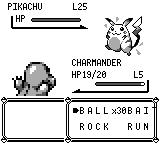
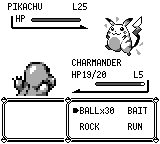
fix(ui): fit Safari labels and ball count using font advances

Changed region(s): [[0.5312, 0.7222, 0.9375, 0.8056], [0.5312, 0.8333, 0.6875, 0.9167], [0.8125, 0.8611, 0.9375, 0.9167]]

diff --git a/crates/pokered-ui/src/menus/battle_safari.rs b/crates/pokered-ui/src/menus/battle_safari.rs
@@ -1,3 +1,4 @@
+use crate::alloc_prelude::format;
 use pokered_core::battle::menu::SafariBattleMenuState;
 use pokered_core::game_state::Lang;
 #[cfg(not(target_os = "none"))]
@@ -27,10 +28,12 @@ fn draw_v2<P: Painter>(state: &SafariBattleMenuState, ui: &mut Ui<P>, lang: Lang
     let Some(json) = get_screen_v2_json("battle_safari") else {
         return;
     };
-    let Some(layout) = v2::parse_screen(json) else {
+    let Some(mut layout) = v2::parse_screen(json) else {
         return;
     };
 
+    // Use the open font's actual advances so BALL and its count fit one column.
+    layout.theme.text_mode = dotzuki_renderer::layout_engine::types::TextMode::Proportional;
     let ctx = bindings(state, lang).dynamic();
 
     v2::render_screen_overlay(&layout, &ctx, ui.painter());
@@ -44,6 +47,8 @@ fn bindings(
     ctx.set("bcol", state.col() as i64);
     ctx.set("brow", state.row() as i64);
     ctx.set("__lang", v2::lang_code(lang));
+    let label = if lang == Lang::Zh { "球" } else { "BALL" };
+    ctx.set("ball_label", format!("{label}×{}", state.safari_balls_remaining));
 
     ctx
 }
@@ -53,7 +58,7 @@ fn draw_compiled<P: Painter>(state: &SafariBattleMenuState, painter: &mut P, lan
     pokered_data::ui_layout::schema::BATTLE_SAFARI_STATIC_LAYOUT.render(
         &bindings(state, lang),
         painter,
-        false,
+        true,
         false,
     );
 }
@@ -77,7 +82,9 @@ fn cursor_spec(row: usize, col: usize) -> (TilePos, char) {
 }
 
 fn draw_cursor<P: Painter>(painter: &mut P, cursor: (TilePos, char)) {
-    painter.draw_glyph(cursor.0, cursor.1, Rgba::INK_BLACK);
+    dotzuki_renderer::layout_engine::elements::cursor::draw_cursor_glyph(
+        cursor.0, cursor.1, Rgba::INK_BLACK, painter.supports_proportional(), painter,
+    );
 }
 
 /// Repaint only the changed cursor cells of an already-rendered Safari menu.
@@ -101,6 +108,7 @@ mod tests {
     enum Op {
         Box(TileRect, Rgba),
         Glyph(TilePos, char, Rgba),
+        TextPx(u32, u32, crate::alloc_prelude::String, Rgba),
     }
 
     #[derive(Default)]
@@ -121,6 +129,12 @@ mod tests {
 
         fn draw_pixel_rect(&mut self, _px: u32, _py: u32, _pw: u32, _ph: u32, _color: Rgba) {}
 
+        fn draw_text_px(&mut self, x: u32, y: u32, text: &str, color: Rgba) {
+            self.0.push(Op::TextPx(x, y, text.into(), color));
+        }
+
+        fn supports_proportional(&self) -> bool { true }
+
         fn draw_gb_tile(&mut self, _pos: TilePos, _tile_id: u8, _fallback: &str, _color: Rgba) {}
     }
 
@@ -132,6 +146,34 @@ mod tests {
             ..BattleMenuInput::none()
         });
         state
+    }
+
+    #[test]
+    fn safari_ball_label_and_count_use_actual_font_advances() {
+        use crate::backends::framebuffer::FrameBufferPainter;
+        use dotzuki_engine::render_config::RenderConfig;
+        use pokered_renderer::{embedded_font, FrameBuffer};
+
+        for lang in [Lang::En, Lang::Zh] {
+            for balls in [0, 1, 9, 10, 30] {
+                let state = SafariBattleMenuState::new(balls);
+                let mut actual = FrameBuffer::new(RenderConfig::new(160, 144), Rgba::WHITE);
+                let mut painter = FrameBufferPainter::new(&mut actual).with_lang(lang);
+                draw_v2(&state, &mut Ui::new(&mut painter), lang);
+                let label = format!("{}×{balls}", if lang == Lang::Zh { "球" } else { "BALL" });
+                assert!(embedded_font::measure_text(&label) <= 40,
+                    "ball label must fit before the right-column cursor");
+                let mut expected = FrameBuffer::new(RenderConfig::new(160, 144), Rgba::WHITE);
+                let y = if lang == Lang::Zh { 103 } else { 104 };
+                embedded_font::draw_text(&label, 80, y, Rgba::INK_BLACK, &mut expected);
+                for y in 104..116 {
+                    for x in 80..120 {
+                        assert_eq!(actual.get_pixel(x, y), expected.get_pixel(x, y),
+                            "{lang:?}, balls={balls}, ({x},{y})");
+                    }
+                }
+            }
+        }
     }
 
     #[test]

diff --git a/crates/pokered-app/src/render/battle.rs b/crates/pokered-app/src/render/battle.rs
@@ -4688,16 +4688,6 @@ pub fn draw_battle(
             if matches!(screen.phase, BattlePhase::PlayerMenu) {
                 if screen.is_safari {
                     menus::battle_safari::draw(&screen.safari_menu, &mut ui, language);
-                    // SAFARI BALL count after "BALL": the original prints
-                    // wNumSafariBalls as a 2-digit number (core.asm:2077-2081,
-                    // PrintNumber — "BALL×NN"; aligned to the menu's first text row.
-                    draw_text(
-                        &format!("×{}", screen.safari_menu.safari_balls_remaining),
-                        112,
-                        104,
-                        Rgba::new(0, 0, 0, 255),
-                        fb,
-                    );
                 } else {
                     menus::battle_main::draw(
                         &screen.battle_menu,

diff --git a/docs/screenshots/tui-shared-runtime/README.md b/docs/screenshots/tui-shared-runtime/README.md
@@ -16,64 +16,66 @@ PR_SCREENSHOTS=/tmp/tui-frames cargo test -p pokered-tui capture_tui_ -- --ignor
 
 新增截图 fixture 在 master 捕获时临时加入原有测试文件，使用旧 TUI 游戏类与输入类型；PR 上使用共享游戏类与输入类型。两次捕获的屏幕状态、语言及输入序列相同。通用屏幕的 `frame_count=180`，其余帧数见 fixture。额外字体场景覆盖中英文、等级 100、HP 703/703、PSN、队伍、PC、命名、红蓝标题及 GAME FREAK。
 
-战斗与狩猎区动作菜单的两行文字及光标整体上移 8px，底边上方留出至少 6px 空白；狩猎球数量同步对齐。像素回归检查覆盖两种语言、两种菜单与全部四个光标位置。`battle-menu-padding-bug.png` 保存 805d8c9 上的审阅问题画面。
+战斗与狩猎区动作菜单的两行文字及光标整体上移 8px，底边上方留出至少 6px 空白；狩猎区标签按 Fusion Pixel 实际字宽绘制，BALL 与数量合为一个布局元素；不再从战斗渲染器独立插入数量。像素回归检查覆盖两种语言、两种菜单与全部四个光标位置。`battle-menu-padding-bug.png` 保存 805d8c9 上的审阅问题画面。
+
+数量 0/1/9/10/30 的英文/中文像素检查覆盖球标签与计数，静态 GBA 布局与动态布局的输出一致。`safari-menu-width-bug.png` 保存 b7982ef 上英文拥挤的审阅画面。
 
 像素计数按 RGBA 值逐点比较，见 `comparison.json`。
 
 | 场景 | 改变的像素 | 前 | 后 |
 |---|---:|---|---|
-| tui-bag-en | 0 | ![前](https://raw.githubusercontent.com/liuyanghejerry/open-pokered/refactor/tui-shared-runtime/docs/screenshots/tui-shared-runtime/tui-bag-en-before.png?font-review=2) | ![后](https://raw.githubusercontent.com/liuyanghejerry/open-pokered/refactor/tui-shared-runtime/docs/screenshots/tui-shared-runtime/tui-bag-en-after.png?font-review=2) |
-| tui-bag-zh | 0 | ![前](https://raw.githubusercontent.com/liuyanghejerry/open-pokered/refactor/tui-shared-runtime/docs/screenshots/tui-shared-runtime/tui-bag-zh-before.png?font-review=2) | ![后](https://raw.githubusercontent.com/liuyanghejerry/open-pokered/refactor/tui-shared-runtime/docs/screenshots/tui-shared-runtime/tui-bag-zh-after.png?font-review=2) |
-| tui-battle-en | 1631 | ![前](https://raw.githubusercontent.com/liuyanghejerry/open-pokered/refactor/tui-shared-runtime/docs/screenshots/tui-shared-runtime/tui-battle-en-before.png?font-review=2) | ![后](https://raw.githubusercontent.com/liuyanghejerry/open-pokered/refactor/tui-shared-runtime/docs/screenshots/tui-shared-runtime/tui-battle-en-after.png?font-review=2) |
-| tui-battle-zh | 1342 | ![前](https://raw.githubusercontent.com/liuyanghejerry/open-pokered/refactor/tui-shared-runtime/docs/screenshots/tui-shared-runtime/tui-battle-zh-before.png?font-review=2) | ![后](https://raw.githubusercontent.com/liuyanghejerry/open-pokered/refactor/tui-shared-runtime/docs/screenshots/tui-shared-runtime/tui-battle-zh-after.png?font-review=2) |
-| tui-copyright-en | 1437 | ![前](https://raw.githubusercontent.com/liuyanghejerry/open-pokered/refactor/tui-shared-runtime/docs/screenshots/tui-shared-runtime/tui-copyright-en-before.png?font-review=2) | ![后](https://raw.githubusercontent.com/liuyanghejerry/open-pokered/refactor/tui-shared-runtime/docs/screenshots/tui-shared-runtime/tui-copyright-en-after.png?font-review=2) |
-| tui-copyright-zh | 1437 | ![前](https://raw.githubusercontent.com/liuyanghejerry/open-pokered/refactor/tui-shared-runtime/docs/screenshots/tui-shared-runtime/tui-copyright-zh-before.png?font-review=2) | ![后](https://raw.githubusercontent.com/liuyanghejerry/open-pokered/refactor/tui-shared-runtime/docs/screenshots/tui-shared-runtime/tui-copyright-zh-after.png?font-review=2) |
-| tui-dex-caterpie-page-0 | 1936 | ![前](https://raw.githubusercontent.com/liuyanghejerry/open-pokered/refactor/tui-shared-runtime/docs/screenshots/tui-shared-runtime/tui-dex-caterpie-page-0-before.png?font-review=2) | ![后](https://raw.githubusercontent.com/liuyanghejerry/open-pokered/refactor/tui-shared-runtime/docs/screenshots/tui-shared-runtime/tui-dex-caterpie-page-0-after.png?font-review=2) |
-| tui-fly-departure-0-en | 15283 | ![前](https://raw.githubusercontent.com/liuyanghejerry/open-pokered/refactor/tui-shared-runtime/docs/screenshots/tui-shared-runtime/tui-fly-departure-0-en-before.png?font-review=2) | ![后](https://raw.githubusercontent.com/liuyanghejerry/open-pokered/refactor/tui-shared-runtime/docs/screenshots/tui-shared-runtime/tui-fly-departure-0-en-after.png?font-review=2) |
-| tui-fly-departure-0-zh | 15245 | ![前](https://raw.githubusercontent.com/liuyanghejerry/open-pokered/refactor/tui-shared-runtime/docs/screenshots/tui-shared-runtime/tui-fly-departure-0-zh-before.png?font-review=2) | ![后](https://raw.githubusercontent.com/liuyanghejerry/open-pokered/refactor/tui-shared-runtime/docs/screenshots/tui-shared-runtime/tui-fly-departure-0-zh-after.png?font-review=2) |
-| tui-fly-departure-7-en | 15283 | ![前](https://raw.githubusercontent.com/liuyanghejerry/open-pokered/refactor/tui-shared-runtime/docs/screenshots/tui-shared-runtime/tui-fly-departure-7-en-before.png?font-review=2) | ![后](https://raw.githubusercontent.com/liuyanghejerry/open-pokered/refactor/tui-shared-runtime/docs/screenshots/tui-shared-runtime/tui-fly-departure-7-en-after.png?font-review=2) |
-| tui-fly-departure-7-zh | 15245 | ![前](https://raw.githubusercontent.com/liuyanghejerry/open-pokered/refactor/tui-shared-runtime/docs/screenshots/tui-shared-runtime/tui-fly-departure-7-zh-before.png?font-review=2) | ![后](https://raw.githubusercontent.com/liuyanghejerry/open-pokered/refactor/tui-shared-runtime/docs/screenshots/tui-shared-runtime/tui-fly-departure-7-zh-after.png?font-review=2) |
-| tui-fly-departure-8-en | 6502 | ![前](https://raw.githubusercontent.com/liuyanghejerry/open-pokered/refactor/tui-shared-runtime/docs/screenshots/tui-shared-runtime/tui-fly-departure-8-en-before.png?font-review=2) | ![后](https://raw.githubusercontent.com/liuyanghejerry/open-pokered/refactor/tui-shared-runtime/docs/screenshots/tui-shared-runtime/tui-fly-departure-8-en-after.png?font-review=2) |
-| tui-fly-departure-8-zh | 6502 | ![前](https://raw.githubusercontent.com/liuyanghejerry/open-pokered/refactor/tui-shared-runtime/docs/screenshots/tui-shared-runtime/tui-fly-departure-8-zh-before.png?font-review=2) | ![后](https://raw.githubusercontent.com/liuyanghejerry/open-pokered/refactor/tui-shared-runtime/docs/screenshots/tui-shared-runtime/tui-fly-departure-8-zh-after.png?font-review=2) |
-| tui-font-battle-status-en | 1692 | ![前](https://raw.githubusercontent.com/liuyanghejerry/open-pokered/refactor/tui-shared-runtime/docs/screenshots/tui-shared-runtime/tui-font-battle-status-en-before.png?font-review=2) | ![后](https://raw.githubusercontent.com/liuyanghejerry/open-pokered/refactor/tui-shared-runtime/docs/screenshots/tui-shared-runtime/tui-font-battle-status-en-after.png?font-review=2) |
-| tui-font-battle-status-zh | 1405 | ![前](https://raw.githubusercontent.com/liuyanghejerry/open-pokered/refactor/tui-shared-runtime/docs/screenshots/tui-shared-runtime/tui-font-battle-status-zh-before.png?font-review=2) | ![后](https://raw.githubusercontent.com/liuyanghejerry/open-pokered/refactor/tui-shared-runtime/docs/screenshots/tui-shared-runtime/tui-font-battle-status-zh-after.png?font-review=2) |
-| tui-font-gamefreak | 322 | ![前](https://raw.githubusercontent.com/liuyanghejerry/open-pokered/refactor/tui-shared-runtime/docs/screenshots/tui-shared-runtime/tui-font-gamefreak-before.png?font-review=2) | ![后](https://raw.githubusercontent.com/liuyanghejerry/open-pokered/refactor/tui-shared-runtime/docs/screenshots/tui-shared-runtime/tui-font-gamefreak-after.png?font-review=2) |
-| tui-font-naming | 126 | ![前](https://raw.githubusercontent.com/liuyanghejerry/open-pokered/refactor/tui-shared-runtime/docs/screenshots/tui-shared-runtime/tui-font-naming-before.png?font-review=2) | ![后](https://raw.githubusercontent.com/liuyanghejerry/open-pokered/refactor/tui-shared-runtime/docs/screenshots/tui-shared-runtime/tui-font-naming-after.png?font-review=2) |
-| tui-font-party-en | 103 | ![前](https://raw.githubusercontent.com/liuyanghejerry/open-pokered/refactor/tui-shared-runtime/docs/screenshots/tui-shared-runtime/tui-font-party-en-before.png?font-review=2) | ![后](https://raw.githubusercontent.com/liuyanghejerry/open-pokered/refactor/tui-shared-runtime/docs/screenshots/tui-shared-runtime/tui-font-party-en-after.png?font-review=2) |
-| tui-font-party-zh | 103 | ![前](https://raw.githubusercontent.com/liuyanghejerry/open-pokered/refactor/tui-shared-runtime/docs/screenshots/tui-shared-runtime/tui-font-party-zh-before.png?font-review=2) | ![后](https://raw.githubusercontent.com/liuyanghejerry/open-pokered/refactor/tui-shared-runtime/docs/screenshots/tui-shared-runtime/tui-font-party-zh-after.png?font-review=2) |
-| tui-font-pc | 255 | ![前](https://raw.githubusercontent.com/liuyanghejerry/open-pokered/refactor/tui-shared-runtime/docs/screenshots/tui-shared-runtime/tui-font-pc-before.png?font-review=2) | ![后](https://raw.githubusercontent.com/liuyanghejerry/open-pokered/refactor/tui-shared-runtime/docs/screenshots/tui-shared-runtime/tui-font-pc-after.png?font-review=2) |
-| tui-font-title-Blue | 647 | ![前](https://raw.githubusercontent.com/liuyanghejerry/open-pokered/refactor/tui-shared-runtime/docs/screenshots/tui-shared-runtime/tui-font-title-Blue-before.png?font-review=2) | ![后](https://raw.githubusercontent.com/liuyanghejerry/open-pokered/refactor/tui-shared-runtime/docs/screenshots/tui-shared-runtime/tui-font-title-Blue-after.png?font-review=2) |
-| tui-font-title-Red | 644 | ![前](https://raw.githubusercontent.com/liuyanghejerry/open-pokered/refactor/tui-shared-runtime/docs/screenshots/tui-shared-runtime/tui-font-title-Red-before.png?font-review=2) | ![后](https://raw.githubusercontent.com/liuyanghejerry/open-pokered/refactor/tui-shared-runtime/docs/screenshots/tui-shared-runtime/tui-font-title-Red-after.png?font-review=2) |
-| tui-hof-rating-50 | 0 | ![前](https://raw.githubusercontent.com/liuyanghejerry/open-pokered/refactor/tui-shared-runtime/docs/screenshots/tui-shared-runtime/tui-hof-rating-50-before.png?font-review=2) | ![后](https://raw.githubusercontent.com/liuyanghejerry/open-pokered/refactor/tui-shared-runtime/docs/screenshots/tui-shared-runtime/tui-hof-rating-50-after.png?font-review=2) |
-| tui-hof-stats-max | 0 | ![前](https://raw.githubusercontent.com/liuyanghejerry/open-pokered/refactor/tui-shared-runtime/docs/screenshots/tui-shared-runtime/tui-hof-stats-max-before.png?font-review=2) | ![后](https://raw.githubusercontent.com/liuyanghejerry/open-pokered/refactor/tui-shared-runtime/docs/screenshots/tui-shared-runtime/tui-hof-stats-max-after.png?font-review=2) |
-| tui-hof-stats-zero | 0 | ![前](https://raw.githubusercontent.com/liuyanghejerry/open-pokered/refactor/tui-shared-runtime/docs/screenshots/tui-shared-runtime/tui-hof-stats-zero-before.png?font-review=2) | ![后](https://raw.githubusercontent.com/liuyanghejerry/open-pokered/refactor/tui-shared-runtime/docs/screenshots/tui-shared-runtime/tui-hof-stats-zero-after.png?font-review=2) |
-| tui-intro-en | 0 | ![前](https://raw.githubusercontent.com/liuyanghejerry/open-pokered/refactor/tui-shared-runtime/docs/screenshots/tui-shared-runtime/tui-intro-en-before.png?font-review=2) | ![后](https://raw.githubusercontent.com/liuyanghejerry/open-pokered/refactor/tui-shared-runtime/docs/screenshots/tui-shared-runtime/tui-intro-en-after.png?font-review=2) |
-| tui-intro-zh | 0 | ![前](https://raw.githubusercontent.com/liuyanghejerry/open-pokered/refactor/tui-shared-runtime/docs/screenshots/tui-shared-runtime/tui-intro-zh-before.png?font-review=2) | ![后](https://raw.githubusercontent.com/liuyanghejerry/open-pokered/refactor/tui-shared-runtime/docs/screenshots/tui-shared-runtime/tui-intro-zh-after.png?font-review=2) |
-| tui-language-en | 0 | ![前](https://raw.githubusercontent.com/liuyanghejerry/open-pokered/refactor/tui-shared-runtime/docs/screenshots/tui-shared-runtime/tui-language-en-before.png?font-review=2) | ![后](https://raw.githubusercontent.com/liuyanghejerry/open-pokered/refactor/tui-shared-runtime/docs/screenshots/tui-shared-runtime/tui-language-en-after.png?font-review=2) |
-| tui-language-zh | 0 | ![前](https://raw.githubusercontent.com/liuyanghejerry/open-pokered/refactor/tui-shared-runtime/docs/screenshots/tui-shared-runtime/tui-language-zh-before.png?font-review=2) | ![后](https://raw.githubusercontent.com/liuyanghejerry/open-pokered/refactor/tui-shared-runtime/docs/screenshots/tui-shared-runtime/tui-language-zh-after.png?font-review=2) |
-| tui-main-menu-en | 0 | ![前](https://raw.githubusercontent.com/liuyanghejerry/open-pokered/refactor/tui-shared-runtime/docs/screenshots/tui-shared-runtime/tui-main-menu-en-before.png?font-review=2) | ![后](https://raw.githubusercontent.com/liuyanghejerry/open-pokered/refactor/tui-shared-runtime/docs/screenshots/tui-shared-runtime/tui-main-menu-en-after.png?font-review=2) |
-| tui-main-menu-zh | 0 | ![前](https://raw.githubusercontent.com/liuyanghejerry/open-pokered/refactor/tui-shared-runtime/docs/screenshots/tui-shared-runtime/tui-main-menu-zh-before.png?font-review=2) | ![后](https://raw.githubusercontent.com/liuyanghejerry/open-pokered/refactor/tui-shared-runtime/docs/screenshots/tui-shared-runtime/tui-main-menu-zh-after.png?font-review=2) |
-| tui-oak-input-frame-43 | 0 | ![前](https://raw.githubusercontent.com/liuyanghejerry/open-pokered/refactor/tui-shared-runtime/docs/screenshots/tui-shared-runtime/tui-oak-input-frame-43-before.png?font-review=2) | ![后](https://raw.githubusercontent.com/liuyanghejerry/open-pokered/refactor/tui-shared-runtime/docs/screenshots/tui-shared-runtime/tui-oak-input-frame-43-after.png?font-review=2) |
-| tui-oak-name-choice | 520 | ![前](https://raw.githubusercontent.com/liuyanghejerry/open-pokered/refactor/tui-shared-runtime/docs/screenshots/tui-shared-runtime/tui-oak-name-choice-before.png?font-review=2) | ![后](https://raw.githubusercontent.com/liuyanghejerry/open-pokered/refactor/tui-shared-runtime/docs/screenshots/tui-shared-runtime/tui-oak-name-choice-after.png?font-review=2) |
-| tui-options-en | 0 | ![前](https://raw.githubusercontent.com/liuyanghejerry/open-pokered/refactor/tui-shared-runtime/docs/screenshots/tui-shared-runtime/tui-options-en-before.png?font-review=2) | ![后](https://raw.githubusercontent.com/liuyanghejerry/open-pokered/refactor/tui-shared-runtime/docs/screenshots/tui-shared-runtime/tui-options-en-after.png?font-review=2) |
-| tui-options-zh | 0 | ![前](https://raw.githubusercontent.com/liuyanghejerry/open-pokered/refactor/tui-shared-runtime/docs/screenshots/tui-shared-runtime/tui-options-zh-before.png?font-review=2) | ![后](https://raw.githubusercontent.com/liuyanghejerry/open-pokered/refactor/tui-shared-runtime/docs/screenshots/tui-shared-runtime/tui-options-zh-after.png?font-review=2) |
-| tui-overworld-en | 0 | ![前](https://raw.githubusercontent.com/liuyanghejerry/open-pokered/refactor/tui-shared-runtime/docs/screenshots/tui-shared-runtime/tui-overworld-en-before.png?font-review=2) | ![后](https://raw.githubusercontent.com/liuyanghejerry/open-pokered/refactor/tui-shared-runtime/docs/screenshots/tui-shared-runtime/tui-overworld-en-after.png?font-review=2) |
-| tui-overworld-zh | 0 | ![前](https://raw.githubusercontent.com/liuyanghejerry/open-pokered/refactor/tui-shared-runtime/docs/screenshots/tui-shared-runtime/tui-overworld-zh-before.png?font-review=2) | ![后](https://raw.githubusercontent.com/liuyanghejerry/open-pokered/refactor/tui-shared-runtime/docs/screenshots/tui-shared-runtime/tui-overworld-zh-after.png?font-review=2) |
-| tui-party-en | 0 | ![前](https://raw.githubusercontent.com/liuyanghejerry/open-pokered/refactor/tui-shared-runtime/docs/screenshots/tui-shared-runtime/tui-party-en-before.png?font-review=2) | ![后](https://raw.githubusercontent.com/liuyanghejerry/open-pokered/refactor/tui-shared-runtime/docs/screenshots/tui-shared-runtime/tui-party-en-after.png?font-review=2) |
-| tui-party-zh | 0 | ![前](https://raw.githubusercontent.com/liuyanghejerry/open-pokered/refactor/tui-shared-runtime/docs/screenshots/tui-shared-runtime/tui-party-zh-before.png?font-review=2) | ![后](https://raw.githubusercontent.com/liuyanghejerry/open-pokered/refactor/tui-shared-runtime/docs/screenshots/tui-shared-runtime/tui-party-zh-after.png?font-review=2) |
-| tui-pc-oak-rating-50 | 0 | ![前](https://raw.githubusercontent.com/liuyanghejerry/open-pokered/refactor/tui-shared-runtime/docs/screenshots/tui-shared-runtime/tui-pc-oak-rating-50-before.png?font-review=2) | ![后](https://raw.githubusercontent.com/liuyanghejerry/open-pokered/refactor/tui-shared-runtime/docs/screenshots/tui-shared-runtime/tui-pc-oak-rating-50-after.png?font-review=2) |
-| tui-safari-menu-en | 1687 | ![前](https://raw.githubusercontent.com/liuyanghejerry/open-pokered/refactor/tui-shared-runtime/docs/screenshots/tui-shared-runtime/tui-safari-menu-en-before.png?font-review=2) | ![后](https://raw.githubusercontent.com/liuyanghejerry/open-pokered/refactor/tui-shared-runtime/docs/screenshots/tui-shared-runtime/tui-safari-menu-en-after.png?font-review=2) |
-| tui-safari-menu-zh | 1342 | ![前](https://raw.githubusercontent.com/liuyanghejerry/open-pokered/refactor/tui-shared-runtime/docs/screenshots/tui-shared-runtime/tui-safari-menu-zh-before.png?font-review=2) | ![后](https://raw.githubusercontent.com/liuyanghejerry/open-pokered/refactor/tui-shared-runtime/docs/screenshots/tui-shared-runtime/tui-safari-menu-zh-after.png?font-review=2) |
-| tui-save-en | 0 | ![前](https://raw.githubusercontent.com/liuyanghejerry/open-pokered/refactor/tui-shared-runtime/docs/screenshots/tui-shared-runtime/tui-save-en-before.png?font-review=2) | ![后](https://raw.githubusercontent.com/liuyanghejerry/open-pokered/refactor/tui-shared-runtime/docs/screenshots/tui-shared-runtime/tui-save-en-after.png?font-review=2) |
-| tui-save-zh | 0 | ![前](https://raw.githubusercontent.com/liuyanghejerry/open-pokered/refactor/tui-shared-runtime/docs/screenshots/tui-shared-runtime/tui-save-zh-before.png?font-review=2) | ![后](https://raw.githubusercontent.com/liuyanghejerry/open-pokered/refactor/tui-shared-runtime/docs/screenshots/tui-shared-runtime/tui-save-zh-after.png?font-review=2) |
-| tui-splash-en | 1437 | ![前](https://raw.githubusercontent.com/liuyanghejerry/open-pokered/refactor/tui-shared-runtime/docs/screenshots/tui-shared-runtime/tui-splash-en-before.png?font-review=2) | ![后](https://raw.githubusercontent.com/liuyanghejerry/open-pokered/refactor/tui-shared-runtime/docs/screenshots/tui-shared-runtime/tui-splash-en-after.png?font-review=2) |
-| tui-splash-zh | 1437 | ![前](https://raw.githubusercontent.com/liuyanghejerry/open-pokered/refactor/tui-shared-runtime/docs/screenshots/tui-shared-runtime/tui-splash-zh-before.png?font-review=2) | ![后](https://raw.githubusercontent.com/liuyanghejerry/open-pokered/refactor/tui-shared-runtime/docs/screenshots/tui-shared-runtime/tui-splash-zh-after.png?font-review=2) |
-| tui-start-menu-en | 0 | ![前](https://raw.githubusercontent.com/liuyanghejerry/open-pokered/refactor/tui-shared-runtime/docs/screenshots/tui-shared-runtime/tui-start-menu-en-before.png?font-review=2) | ![后](https://raw.githubusercontent.com/liuyanghejerry/open-pokered/refactor/tui-shared-runtime/docs/screenshots/tui-shared-runtime/tui-start-menu-en-after.png?font-review=2) |
-| tui-start-menu-zh | 0 | ![前](https://raw.githubusercontent.com/liuyanghejerry/open-pokered/refactor/tui-shared-runtime/docs/screenshots/tui-shared-runtime/tui-start-menu-zh-before.png?font-review=2) | ![后](https://raw.githubusercontent.com/liuyanghejerry/open-pokered/refactor/tui-shared-runtime/docs/screenshots/tui-shared-runtime/tui-start-menu-zh-after.png?font-review=2) |
-| tui-starter-dex-overlay | 1952 | ![前](https://raw.githubusercontent.com/liuyanghejerry/open-pokered/refactor/tui-shared-runtime/docs/screenshots/tui-shared-runtime/tui-starter-dex-overlay-before.png?font-review=2) | ![后](https://raw.githubusercontent.com/liuyanghejerry/open-pokered/refactor/tui-shared-runtime/docs/screenshots/tui-shared-runtime/tui-starter-dex-overlay-after.png?font-review=2) |
-| tui-title-en | 449 | ![前](https://raw.githubusercontent.com/liuyanghejerry/open-pokered/refactor/tui-shared-runtime/docs/screenshots/tui-shared-runtime/tui-title-en-before.png?font-review=2) | ![后](https://raw.githubusercontent.com/liuyanghejerry/open-pokered/refactor/tui-shared-runtime/docs/screenshots/tui-shared-runtime/tui-title-en-after.png?font-review=2) |
-| tui-title-zh | 449 | ![前](https://raw.githubusercontent.com/liuyanghejerry/open-pokered/refactor/tui-shared-runtime/docs/screenshots/tui-shared-runtime/tui-title-zh-before.png?font-review=2) | ![后](https://raw.githubusercontent.com/liuyanghejerry/open-pokered/refactor/tui-shared-runtime/docs/screenshots/tui-shared-runtime/tui-title-zh-after.png?font-review=2) |
-| tui-town-map-en | 192 | ![前](https://raw.githubusercontent.com/liuyanghejerry/open-pokered/refactor/tui-shared-runtime/docs/screenshots/tui-shared-runtime/tui-town-map-en-before.png?font-review=2) | ![后](https://raw.githubusercontent.com/liuyanghejerry/open-pokered/refactor/tui-shared-runtime/docs/screenshots/tui-shared-runtime/tui-town-map-en-after.png?font-review=2) |
-| tui-town-map-zh | 374 | ![前](https://raw.githubusercontent.com/liuyanghejerry/open-pokered/refactor/tui-shared-runtime/docs/screenshots/tui-shared-runtime/tui-town-map-zh-before.png?font-review=2) | ![后](https://raw.githubusercontent.com/liuyanghejerry/open-pokered/refactor/tui-shared-runtime/docs/screenshots/tui-shared-runtime/tui-town-map-zh-after.png?font-review=2) |
-| tui-trainer-card-en | 528 | ![前](https://raw.githubusercontent.com/liuyanghejerry/open-pokered/refactor/tui-shared-runtime/docs/screenshots/tui-shared-runtime/tui-trainer-card-en-before.png?font-review=2) | ![后](https://raw.githubusercontent.com/liuyanghejerry/open-pokered/refactor/tui-shared-runtime/docs/screenshots/tui-shared-runtime/tui-trainer-card-en-after.png?font-review=2) |
-| tui-trainer-card-zh | 505 | ![前](https://raw.githubusercontent.com/liuyanghejerry/open-pokered/refactor/tui-shared-runtime/docs/screenshots/tui-shared-runtime/tui-trainer-card-zh-before.png?font-review=2) | ![后](https://raw.githubusercontent.com/liuyanghejerry/open-pokered/refactor/tui-shared-runtime/docs/screenshots/tui-shared-runtime/tui-trainer-card-zh-after.png?font-review=2) |
+| tui-bag-en | 0 | ![前](https://raw.githubusercontent.com/liuyanghejerry/open-pokered/refactor/tui-shared-runtime/docs/screenshots/tui-shared-runtime/tui-bag-en-before.png?font-review=3) | ![后](https://raw.githubusercontent.com/liuyanghejerry/open-pokered/refactor/tui-shared-runtime/docs/screenshots/tui-shared-runtime/tui-bag-en-after.png?font-review=3) |
+| tui-bag-zh | 0 | ![前](https://raw.githubusercontent.com/liuyanghejerry/open-pokered/refactor/tui-shared-runtime/docs/screenshots/tui-shared-runtime/tui-bag-zh-before.png?font-review=3) | ![后](https://raw.githubusercontent.com/liuyanghejerry/open-pokered/refactor/tui-shared-runtime/docs/screenshots/tui-shared-runtime/tui-bag-zh-after.png?font-review=3) |
+| tui-battle-en | 1631 | ![前](https://raw.githubusercontent.com/liuyanghejerry/open-pokered/refactor/tui-shared-runtime/docs/screenshots/tui-shared-runtime/tui-battle-en-before.png?font-review=3) | ![后](https://raw.githubusercontent.com/liuyanghejerry/open-pokered/refactor/tui-shared-runtime/docs/screenshots/tui-shared-runtime/tui-battle-en-after.png?font-review=3) |
+| tui-battle-zh | 1342 | ![前](https://raw.githubusercontent.com/liuyanghejerry/open-pokered/refactor/tui-shared-runtime/docs/screenshots/tui-shared-runtime/tui-battle-zh-before.png?font-review=3) | ![后](https://raw.githubusercontent.com/liuyanghejerry/open-pokered/refactor/tui-shared-runtime/docs/screenshots/tui-shared-runtime/tui-battle-zh-after.png?font-review=3) |
+| tui-copyright-en | 1437 | ![前](https://raw.githubusercontent.com/liuyanghejerry/open-pokered/refactor/tui-shared-runtime/docs/screenshots/tui-shared-runtime/tui-copyright-en-before.png?font-review=3) | ![后](https://raw.githubusercontent.com/liuyanghejerry/open-pokered/refactor/tui-shared-runtime/docs/screenshots/tui-shared-runtime/tui-copyright-en-after.png?font-review=3) |
+| tui-copyright-zh | 1437 | ![前](https://raw.githubusercontent.com/liuyanghejerry/open-pokered/refactor/tui-shared-runtime/docs/screenshots/tui-shared-runtime/tui-copyright-zh-before.png?font-review=3) | ![后](https://raw.githubusercontent.com/liuyanghejerry/open-pokered/refactor/tui-shared-runtime/docs/screenshots/tui-shared-runtime/tui-copyright-zh-after.png?font-review=3) |
+| tui-dex-caterpie-page-0 | 1936 | ![前](https://raw.githubusercontent.com/liuyanghejerry/open-pokered/refactor/tui-shared-runtime/docs/screenshots/tui-shared-runtime/tui-dex-caterpie-page-0-before.png?font-review=3) | ![后](https://raw.githubusercontent.com/liuyanghejerry/open-pokered/refactor/tui-shared-runtime/docs/screenshots/tui-shared-runtime/tui-dex-caterpie-page-0-after.png?font-review=3) |
+| tui-fly-departure-0-en | 15283 | ![前](https://raw.githubusercontent.com/liuyanghejerry/open-pokered/refactor/tui-shared-runtime/docs/screenshots/tui-shared-runtime/tui-fly-departure-0-en-before.png?font-review=3) | ![后](https://raw.githubusercontent.com/liuyanghejerry/open-pokered/refactor/tui-shared-runtime/docs/screenshots/tui-shared-runtime/tui-fly-departure-0-en-after.png?font-review=3) |
+| tui-fly-departure-0-zh | 15245 | ![前](https://raw.githubusercontent.com/liuyanghejerry/open-pokered/refactor/tui-shared-runtime/docs/screenshots/tui-shared-runtime/tui-fly-departure-0-zh-before.png?font-review=3) | ![后](https://raw.githubusercontent.com/liuyanghejerry/open-pokered/refactor/tui-shared-runtime/docs/screenshots/tui-shared-runtime/tui-fly-departure-0-zh-after.png?font-review=3) |
+| tui-fly-departure-7-en | 15283 | ![前](https://raw.githubusercontent.com/liuyanghejerry/open-pokered/refactor/tui-shared-runtime/docs/screenshots/tui-shared-runtime/tui-fly-departure-7-en-before.png?font-review=3) | ![后](https://raw.githubusercontent.com/liuyanghejerry/open-pokered/refactor/tui-shared-runtime/docs/screenshots/tui-shared-runtime/tui-fly-departure-7-en-after.png?font-review=3) |
+| tui-fly-departure-7-zh | 15245 | ![前](https://raw.githubusercontent.com/liuyanghejerry/open-pokered/refactor/tui-shared-runtime/docs/screenshots/tui-shared-runtime/tui-fly-departure-7-zh-before.png?font-review=3) | ![后](https://raw.githubusercontent.com/liuyanghejerry/open-pokered/refactor/tui-shared-runtime/docs/screenshots/tui-shared-runtime/tui-fly-departure-7-zh-after.png?font-review=3) |
+| tui-fly-departure-8-en | 6502 | ![前](https://raw.githubusercontent.com/liuyanghejerry/open-pokered/refactor/tui-shared-runtime/docs/screenshots/tui-shared-runtime/tui-fly-departure-8-en-before.png?font-review=3) | ![后](https://raw.githubusercontent.com/liuyanghejerry/open-pokered/refactor/tui-shared-runtime/docs/screenshots/tui-shared-runtime/tui-fly-departure-8-en-after.png?font-review=3) |
+| tui-fly-departure-8-zh | 6502 | ![前](https://raw.githubusercontent.com/liuyanghejerry/open-pokered/refactor/tui-shared-runtime/docs/screenshots/tui-shared-runtime/tui-fly-departure-8-zh-before.png?font-review=3) | ![后](https://raw.githubusercontent.com/liuyanghejerry/open-pokered/refactor/tui-shared-runtime/docs/screenshots/tui-shared-runtime/tui-fly-departure-8-zh-after.png?font-review=3) |
+| tui-font-battle-status-en | 1692 | ![前](https://raw.githubusercontent.com/liuyanghejerry/open-pokered/refactor/tui-shared-runtime/docs/screenshots/tui-shared-runtime/tui-font-battle-status-en-before.png?font-review=3) | ![后](https://raw.githubusercontent.com/liuyanghejerry/open-pokered/refactor/tui-shared-runtime/docs/screenshots/tui-shared-runtime/tui-font-battle-status-en-after.png?font-review=3) |
+| tui-font-battle-status-zh | 1405 | ![前](https://raw.githubusercontent.com/liuyanghejerry/open-pokered/refactor/tui-shared-runtime/docs/screenshots/tui-shared-runtime/tui-font-battle-status-zh-before.png?font-review=3) | ![后](https://raw.githubusercontent.com/liuyanghejerry/open-pokered/refactor/tui-shared-runtime/docs/screenshots/tui-shared-runtime/tui-font-battle-status-zh-after.png?font-review=3) |
+| tui-font-gamefreak | 322 | ![前](https://raw.githubusercontent.com/liuyanghejerry/open-pokered/refactor/tui-shared-runtime/docs/screenshots/tui-shared-runtime/tui-font-gamefreak-before.png?font-review=3) | ![后](https://raw.githubusercontent.com/liuyanghejerry/open-pokered/refactor/tui-shared-runtime/docs/screenshots/tui-shared-runtime/tui-font-gamefreak-after.png?font-review=3) |
+| tui-font-naming | 126 | ![前](https://raw.githubusercontent.com/liuyanghejerry/open-pokered/refactor/tui-shared-runtime/docs/screenshots/tui-shared-runtime/tui-font-naming-before.png?font-review=3) | ![后](https://raw.githubusercontent.com/liuyanghejerry/open-pokered/refactor/tui-shared-runtime/docs/screenshots/tui-shared-runtime/tui-font-naming-after.png?font-review=3) |
+| tui-font-party-en | 103 | ![前](https://raw.githubusercontent.com/liuyanghejerry/open-pokered/refactor/tui-shared-runtime/docs/screenshots/tui-shared-runtime/tui-font-party-en-before.png?font-review=3) | ![后](https://raw.githubusercontent.com/liuyanghejerry/open-pokered/refactor/tui-shared-runtime/docs/screenshots/tui-shared-runtime/tui-font-party-en-after.png?font-review=3) |
+| tui-font-party-zh | 103 | ![前](https://raw.githubusercontent.com/liuyanghejerry/open-pokered/refactor/tui-shared-runtime/docs/screenshots/tui-shared-runtime/tui-font-party-zh-before.png?font-review=3) | ![后](https://raw.githubusercontent.com/liuyanghejerry/open-pokered/refactor/tui-shared-runtime/docs/screenshots/tui-shared-runtime/tui-font-party-zh-after.png?font-review=3) |
+| tui-font-pc | 255 | ![前](https://raw.githubusercontent.com/liuyanghejerry/open-pokered/refactor/tui-shared-runtime/docs/screenshots/tui-shared-runtime/tui-font-pc-before.png?font-review=3) | ![后](https://raw.githubusercontent.com/liuyanghejerry/open-pokered/refactor/tui-shared-runtime/docs/screenshots/tui-shared-runtime/tui-font-pc-after.png?font-review=3) |
+| tui-font-title-Blue | 647 | ![前](https://raw.githubusercontent.com/liuyanghejerry/open-pokered/refactor/tui-shared-runtime/docs/screenshots/tui-shared-runtime/tui-font-title-Blue-before.png?font-review=3) | ![后](https://raw.githubusercontent.com/liuyanghejerry/open-pokered/refactor/tui-shared-runtime/docs/screenshots/tui-shared-runtime/tui-font-title-Blue-after.png?font-review=3) |
+| tui-font-title-Red | 644 | ![前](https://raw.githubusercontent.com/liuyanghejerry/open-pokered/refactor/tui-shared-runtime/docs/screenshots/tui-shared-runtime/tui-font-title-Red-before.png?font-review=3) | ![后](https://raw.githubusercontent.com/liuyanghejerry/open-pokered/refactor/tui-shared-runtime/docs/screenshots/tui-shared-runtime/tui-font-title-Red-after.png?font-review=3) |
+| tui-hof-rating-50 | 0 | ![前](https://raw.githubusercontent.com/liuyanghejerry/open-pokered/refactor/tui-shared-runtime/docs/screenshots/tui-shared-runtime/tui-hof-rating-50-before.png?font-review=3) | ![后](https://raw.githubusercontent.com/liuyanghejerry/open-pokered/refactor/tui-shared-runtime/docs/screenshots/tui-shared-runtime/tui-hof-rating-50-after.png?font-review=3) |
+| tui-hof-stats-max | 0 | ![前](https://raw.githubusercontent.com/liuyanghejerry/open-pokered/refactor/tui-shared-runtime/docs/screenshots/tui-shared-runtime/tui-hof-stats-max-before.png?font-review=3) | ![后](https://raw.githubusercontent.com/liuyanghejerry/open-pokered/refactor/tui-shared-runtime/docs/screenshots/tui-shared-runtime/tui-hof-stats-max-after.png?font-review=3) |
+| tui-hof-stats-zero | 0 | ![前](https://raw.githubusercontent.com/liuyanghejerry/open-pokered/refactor/tui-shared-runtime/docs/screenshots/tui-shared-runtime/tui-hof-stats-zero-before.png?font-review=3) | ![后](https://raw.githubusercontent.com/liuyanghejerry/open-pokered/refactor/tui-shared-runtime/docs/screenshots/tui-shared-runtime/tui-hof-stats-zero-after.png?font-review=3) |
+| tui-intro-en | 0 | ![前](https://raw.githubusercontent.com/liuyanghejerry/open-pokered/refactor/tui-shared-runtime/docs/screenshots/tui-shared-runtime/tui-intro-en-before.png?font-review=3) | ![后](https://raw.githubusercontent.com/liuyanghejerry/open-pokered/refactor/tui-shared-runtime/docs/screenshots/tui-shared-runtime/tui-intro-en-after.png?font-review=3) |
+| tui-intro-zh | 0 | ![前](https://raw.githubusercontent.com/liuyanghejerry/open-pokered/refactor/tui-shared-runtime/docs/screenshots/tui-shared-runtime/tui-intro-zh-before.png?font-review=3) | ![后](https://raw.githubusercontent.com/liuyanghejerry/open-pokered/refactor/tui-shared-runtime/docs/screenshots/tui-shared-runtime/tui-intro-zh-after.png?font-review=3) |
+| tui-language-en | 0 | ![前](https://raw.githubusercontent.com/liuyanghejerry/open-pokered/refactor/tui-shared-runtime/docs/screenshots/tui-shared-runtime/tui-language-en-before.png?font-review=3) | ![后](https://raw.githubusercontent.com/liuyanghejerry/open-pokered/refactor/tui-shared-runtime/docs/screenshots/tui-shared-runtime/tui-language-en-after.png?font-review=3) |
+| tui-language-zh | 0 | ![前](https://raw.githubusercontent.com/liuyanghejerry/open-pokered/refactor/tui-shared-runtime/docs/screenshots/tui-shared-runtime/tui-language-zh-before.png?font-review=3) | ![后](https://raw.githubusercontent.com/liuyanghejerry/open-pokered/refactor/tui-shared-runtime/docs/screenshots/tui-shared-runtime/tui-language-zh-after.png?font-review=3) |
+| tui-main-menu-en | 0 | ![前](https://raw.githubusercontent.com/liuyanghejerry/open-pokered/refactor/tui-shared-runtime/docs/screenshots/tui-shared-runtime/tui-main-menu-en-before.png?font-review=3) | ![后](https://raw.githubusercontent.com/liuyanghejerry/open-pokered/refactor/tui-shared-runtime/docs/screenshots/tui-shared-runtime/tui-main-menu-en-after.png?font-review=3) |
+| tui-main-menu-zh | 0 | ![前](https://raw.githubusercontent.com/liuyanghejerry/open-pokered/refactor/tui-shared-runtime/docs/screenshots/tui-shared-runtime/tui-main-menu-zh-before.png?font-review=3) | ![后](https://raw.githubusercontent.com/liuyanghejerry/open-pokered/refactor/tui-shared-runtime/docs/screenshots/tui-shared-runtime/tui-main-menu-zh-after.png?font-review=3) |
+| tui-oak-input-frame-43 | 0 | ![前](https://raw.githubusercontent.com/liuyanghejerry/open-pokered/refactor/tui-shared-runtime/docs/screenshots/tui-shared-runtime/tui-oak-input-frame-43-before.png?font-review=3) | ![后](https://raw.githubusercontent.com/liuyanghejerry/open-pokered/refactor/tui-shared-runtime/docs/screenshots/tui-shared-runtime/tui-oak-input-frame-43-after.png?font-review=3) |
+| tui-oak-name-choice | 520 | ![前](https://raw.githubusercontent.com/liuyanghejerry/open-pokered/refactor/tui-shared-runtime/docs/screenshots/tui-shared-runtime/tui-oak-name-choice-before.png?font-review=3) | ![后](https://raw.githubusercontent.com/liuyanghejerry/open-pokered/refactor/tui-shared-runtime/docs/screenshots/tui-shared-runtime/tui-oak-name-choice-after.png?font-review=3) |
+| tui-options-en | 0 | ![前](https://raw.githubusercontent.com/liuyanghejerry/open-pokered/refactor/tui-shared-runtime/docs/screenshots/tui-shared-runtime/tui-options-en-before.png?font-review=3) | ![后](https://raw.githubusercontent.com/liuyanghejerry/open-pokered/refactor/tui-shared-runtime/docs/screenshots/tui-shared-runtime/tui-options-en-after.png?font-review=3) |
+| tui-options-zh | 0 | ![前](https://raw.githubusercontent.com/liuyanghejerry/open-pokered/refactor/tui-shared-runtime/docs/screenshots/tui-shared-runtime/tui-options-zh-before.png?font-review=3) | ![后](https://raw.githubusercontent.com/liuyanghejerry/open-pokered/refactor/tui-shared-runtime/docs/screenshots/tui-shared-runtime/tui-options-zh-after.png?font-review=3) |
+| tui-overworld-en | 0 | ![前](https://raw.githubusercontent.com/liuyanghejerry/open-pokered/refactor/tui-shared-runtime/docs/screenshots/tui-shared-runtime/tui-overworld-en-before.png?font-review=3) | ![后](https://raw.githubusercontent.com/liuyanghejerry/open-pokered/refactor/tui-shared-runtime/docs/screenshots/tui-shared-runtime/tui-overworld-en-after.png?font-review=3) |
+| tui-overworld-zh | 0 | ![前](https://raw.githubusercontent.com/liuyanghejerry/open-pokered/refactor/tui-shared-runtime/docs/screenshots/tui-shared-runtime/tui-overworld-zh-before.png?font-review=3) | ![后](https://raw.githubusercontent.com/liuyanghejerry/open-pokered/refactor/tui-shared-runtime/docs/screenshots/tui-shared-runtime/tui-overworld-zh-after.png?font-review=3) |
+| tui-party-en | 0 | ![前](https://raw.githubusercontent.com/liuyanghejerry/open-pokered/refactor/tui-shared-runtime/docs/screenshots/tui-shared-runtime/tui-party-en-before.png?font-review=3) | ![后](https://raw.githubusercontent.com/liuyanghejerry/open-pokered/refactor/tui-shared-runtime/docs/screenshots/tui-shared-runtime/tui-party-en-after.png?font-review=3) |
+| tui-party-zh | 0 | ![前](https://raw.githubusercontent.com/liuyanghejerry/open-pokered/refactor/tui-shared-runtime/docs/screenshots/tui-shared-runtime/tui-party-zh-before.png?font-review=3) | ![后](https://raw.githubusercontent.com/liuyanghejerry/open-pokered/refactor/tui-shared-runtime/docs/screenshots/tui-shared-runtime/tui-party-zh-after.png?font-review=3) |
+| tui-pc-oak-rating-50 | 0 | ![前](https://raw.githubusercontent.com/liuyanghejerry/open-pokered/refactor/tui-shared-runtime/docs/screenshots/tui-shared-runtime/tui-pc-oak-rating-50-before.png?font-review=3) | ![后](https://raw.githubusercontent.com/liuyanghejerry/open-pokered/refactor/tui-shared-runtime/docs/screenshots/tui-shared-runtime/tui-pc-oak-rating-50-after.png?font-review=3) |
+| tui-safari-menu-en | 1704 | ![前](https://raw.githubusercontent.com/liuyanghejerry/open-pokered/refactor/tui-shared-runtime/docs/screenshots/tui-shared-runtime/tui-safari-menu-en-before.png?font-review=3) | ![后](https://raw.githubusercontent.com/liuyanghejerry/open-pokered/refactor/tui-shared-runtime/docs/screenshots/tui-shared-runtime/tui-safari-menu-en-after.png?font-review=3) |
+| tui-safari-menu-zh | 1352 | ![前](https://raw.githubusercontent.com/liuyanghejerry/open-pokered/refactor/tui-shared-runtime/docs/screenshots/tui-shared-runtime/tui-safari-menu-zh-before.png?font-review=3) | ![后](https://raw.githubusercontent.com/liuyanghejerry/open-pokered/refactor/tui-shared-runtime/docs/screenshots/tui-shared-runtime/tui-safari-menu-zh-after.png?font-review=3) |
+| tui-save-en | 0 | ![前](https://raw.githubusercontent.com/liuyanghejerry/open-pokered/refactor/tui-shared-runtime/docs/screenshots/tui-shared-runtime/tui-save-en-before.png?font-review=3) | ![后](https://raw.githubusercontent.com/liuyanghejerry/open-pokered/refactor/tui-shared-runtime/docs/screenshots/tui-shared-runtime/tui-save-en-after.png?font-review=3) |
+| tui-save-zh | 0 | ![前](https://raw.githubusercontent.com/liuyanghejerry/open-pokered/refactor/tui-shared-runtime/docs/screenshots/tui-shared-runtime/tui-save-zh-before.png?font-review=3) | ![后](https://raw.githubusercontent.com/liuyanghejerry/open-pokered/refactor/tui-shared-runtime/docs/screenshots/tui-shared-runtime/tui-save-zh-after.png?font-review=3) |
+| tui-splash-en | 1437 | ![前](https://raw.githubusercontent.com/liuyanghejerry/open-pokered/refactor/tui-shared-runtime/docs/screenshots/tui-shared-runtime/tui-splash-en-before.png?font-review=3) | ![后](https://raw.githubusercontent.com/liuyanghejerry/open-pokered/refactor/tui-shared-runtime/docs/screenshots/tui-shared-runtime/tui-splash-en-after.png?font-review=3) |
+| tui-splash-zh | 1437 | ![前](https://raw.githubusercontent.com/liuyanghejerry/open-pokered/refactor/tui-shared-runtime/docs/screenshots/tui-shared-runtime/tui-splash-zh-before.png?font-review=3) | ![后](https://raw.githubusercontent.com/liuyanghejerry/open-pokered/refactor/tui-shared-runtime/docs/screenshots/tui-shared-runtime/tui-splash-zh-after.png?font-review=3) |
+| tui-start-menu-en | 0 | ![前](https://raw.githubusercontent.com/liuyanghejerry/open-pokered/refactor/tui-shared-runtime/docs/screenshots/tui-shared-runtime/tui-start-menu-en-before.png?font-review=3) | ![后](https://raw.githubusercontent.com/liuyanghejerry/open-pokered/refactor/tui-shared-runtime/docs/screenshots/tui-shared-runtime/tui-start-menu-en-after.png?font-review=3) |
+| tui-start-menu-zh | 0 | ![前](https://raw.githubusercontent.com/liuyanghejerry/open-pokered/refactor/tui-shared-runtime/docs/screenshots/tui-shared-runtime/tui-start-menu-zh-before.png?font-review=3) | ![后](https://raw.githubusercontent.com/liuyanghejerry/open-pokered/refactor/tui-shared-runtime/docs/screenshots/tui-shared-runtime/tui-start-menu-zh-after.png?font-review=3) |
+| tui-starter-dex-overlay | 1952 | ![前](https://raw.githubusercontent.com/liuyanghejerry/open-pokered/refactor/tui-shared-runtime/docs/screenshots/tui-shared-runtime/tui-starter-dex-overlay-before.png?font-review=3) | ![后](https://raw.githubusercontent.com/liuyanghejerry/open-pokered/refactor/tui-shared-runtime/docs/screenshots/tui-shared-runtime/tui-starter-dex-overlay-after.png?font-review=3) |
+| tui-title-en | 449 | ![前](https://raw.githubusercontent.com/liuyanghejerry/open-pokered/refactor/tui-shared-runtime/docs/screenshots/tui-shared-runtime/tui-title-en-before.png?font-review=3) | ![后](https://raw.githubusercontent.com/liuyanghejerry/open-pokered/refactor/tui-shared-runtime/docs/screenshots/tui-shared-runtime/tui-title-en-after.png?font-review=3) |
+| tui-title-zh | 449 | ![前](https://raw.githubusercontent.com/liuyanghejerry/open-pokered/refactor/tui-shared-runtime/docs/screenshots/tui-shared-runtime/tui-title-zh-before.png?font-review=3) | ![后](https://raw.githubusercontent.com/liuyanghejerry/open-pokered/refactor/tui-shared-runtime/docs/screenshots/tui-shared-runtime/tui-title-zh-after.png?font-review=3) |
+| tui-town-map-en | 192 | ![前](https://raw.githubusercontent.com/liuyanghejerry/open-pokered/refactor/tui-shared-runtime/docs/screenshots/tui-shared-runtime/tui-town-map-en-before.png?font-review=3) | ![后](https://raw.githubusercontent.com/liuyanghejerry/open-pokered/refactor/tui-shared-runtime/docs/screenshots/tui-shared-runtime/tui-town-map-en-after.png?font-review=3) |
+| tui-town-map-zh | 374 | ![前](https://raw.githubusercontent.com/liuyanghejerry/open-pokered/refactor/tui-shared-runtime/docs/screenshots/tui-shared-runtime/tui-town-map-zh-before.png?font-review=3) | ![后](https://raw.githubusercontent.com/liuyanghejerry/open-pokered/refactor/tui-shared-runtime/docs/screenshots/tui-shared-runtime/tui-town-map-zh-after.png?font-review=3) |
+| tui-trainer-card-en | 528 | ![前](https://raw.githubusercontent.com/liuyanghejerry/open-pokered/refactor/tui-shared-runtime/docs/screenshots/tui-shared-runtime/tui-trainer-card-en-before.png?font-review=3) | ![后](https://raw.githubusercontent.com/liuyanghejerry/open-pokered/refactor/tui-shared-runtime/docs/screenshots/tui-shared-runtime/tui-trainer-card-en-after.png?font-review=3) |
+| tui-trainer-card-zh | 505 | ![前](https://raw.githubusercontent.com/liuyanghejerry/open-pokered/refactor/tui-shared-runtime/docs/screenshots/tui-shared-runtime/tui-trainer-card-zh-before.png?font-review=3) | ![后](https://raw.githubusercontent.com/liuyanghejerry/open-pokered/refactor/tui-shared-runtime/docs/screenshots/tui-shared-runtime/tui-trainer-card-zh-after.png?font-review=3) |
